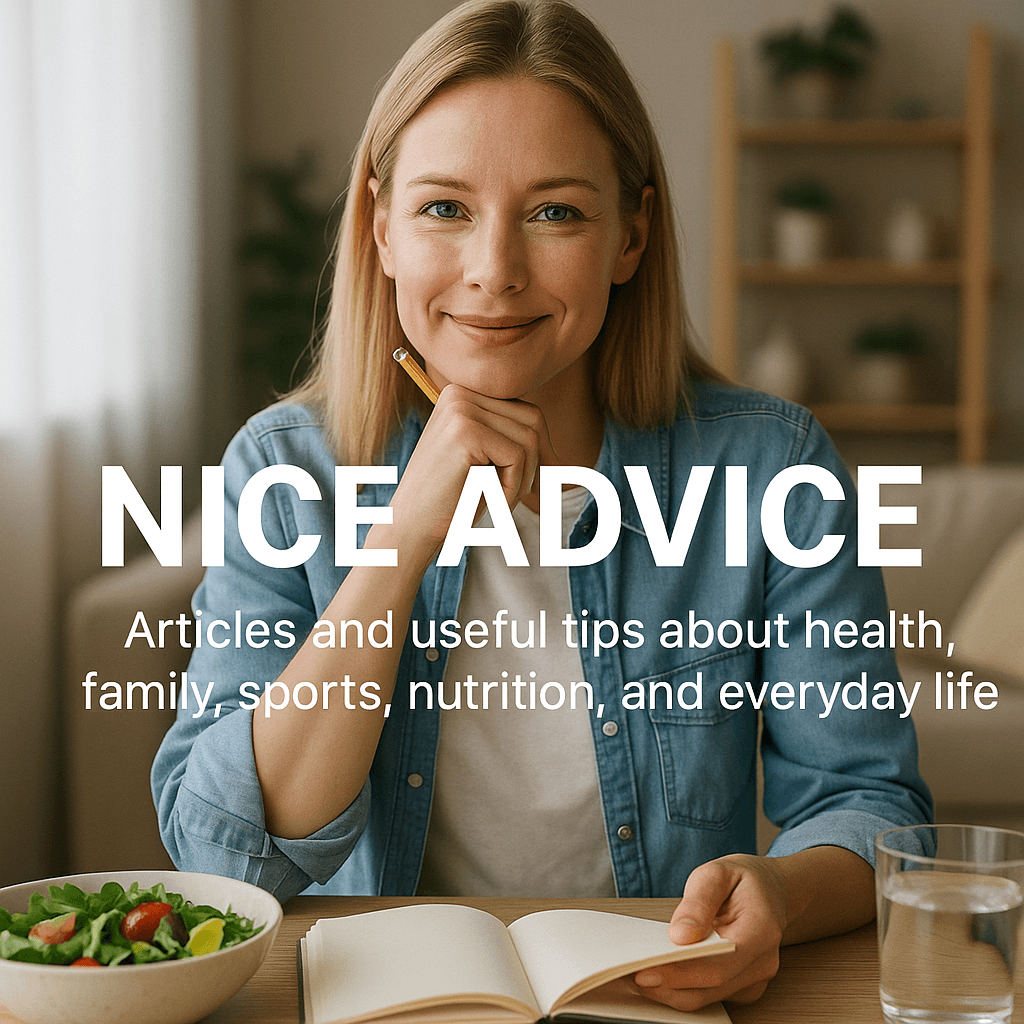
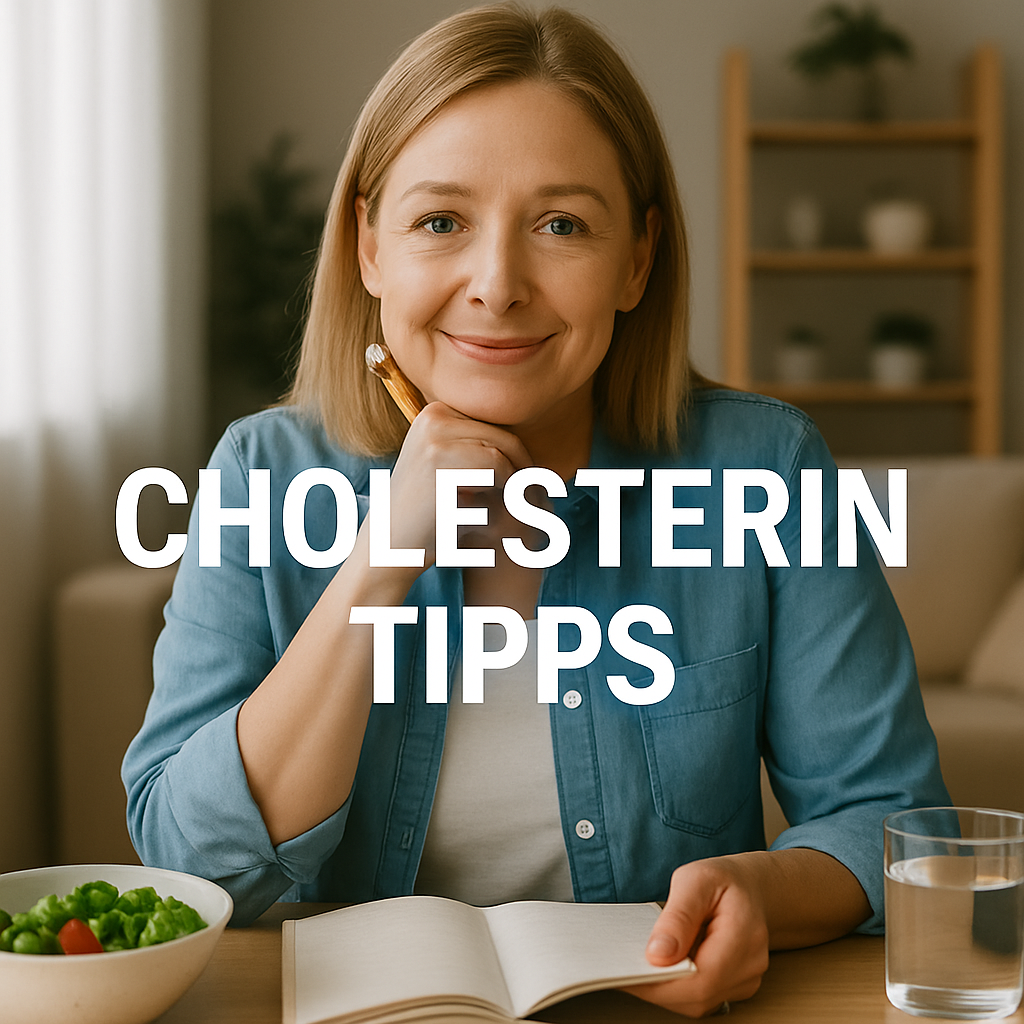
fix

diff --git a/index.html b/index.html
@@ -9,23 +9,23 @@
     <title>CholesterinTipps</title>
     <meta
       name="description"
-      content="Nice Advice – articles and useful tips about health, family, sports, nutrition, and everyday life. Find practical advice for a better lifestyle."
+      content="CholesterinTipps – articles and useful tips about health, family, sports, nutrition, and everyday life. Find practical advice for a better lifestyle."
     />
     <meta
       name="keywords"
       content="health, family, sports, human body, lifestyle, nutrition, tips, guides, advice"
     />
-    <meta name="author" content="Nice Advice" />
+    <meta name="author" content="CholesterinTipps" />
     <meta name="robots" content="index, follow" />
 
     <!-- Open Graph (Facebook, LinkedIn, etc.) -->
     <meta
       property="og:title"
-      content="Nice Advice – Practical Health, Family, Nutrition & Lifestyle Tips"
+      content="CholesterinTipps – Practical Health, Family, Nutrition & Lifestyle Tips"
     />
     <meta
       property="og:description"
-      content="Nice Advice – articles and useful tips about health, family, sports, nutrition, and everyday life. Find practical advice for a better lifestyle."
+      content="CholesterinTipps – articles and useful tips about health, family, sports, nutrition, and everyday life. Find practical advice for a better lifestyle."
     />
     <meta property="og:type" content="website" />
     <meta property="og:url" content="https://nice-advice.info/" />
@@ -39,11 +39,11 @@
     <meta name="twitter:card" content="summary_large_image" />
     <meta
       name="twitter:title"
-      content="Nice Advice – Practical Health, Family, Nutrition & Lifestyle Tips"
+      content="CholesterinTipps – Practical Health, Family, Nutrition & Lifestyle Tips"
     />
     <meta
       name="twitter:description"
-      content="Nice Advice – articles and useful tips about health, family, sports, nutrition, and everyday life. Find practical advice for a better lifestyle."
+      content="CholesterinTipps – articles and useful tips about health, family, sports, nutrition, and everyday life. Find practical advice for a better lifestyle."
     />
     <meta
       name="twitter:image"
